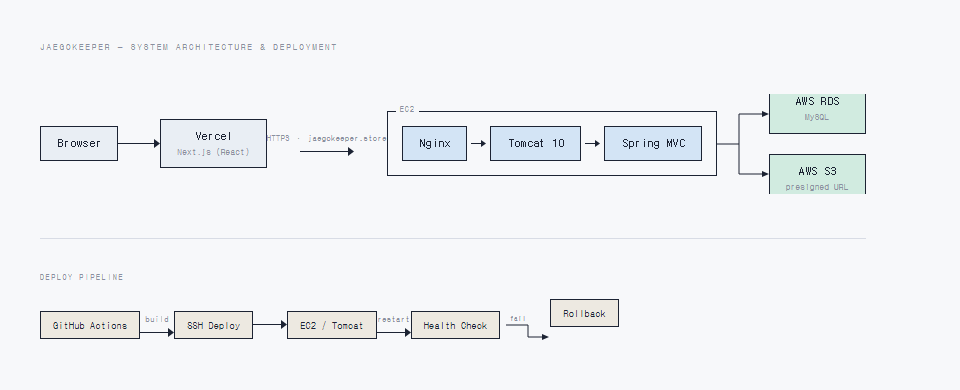
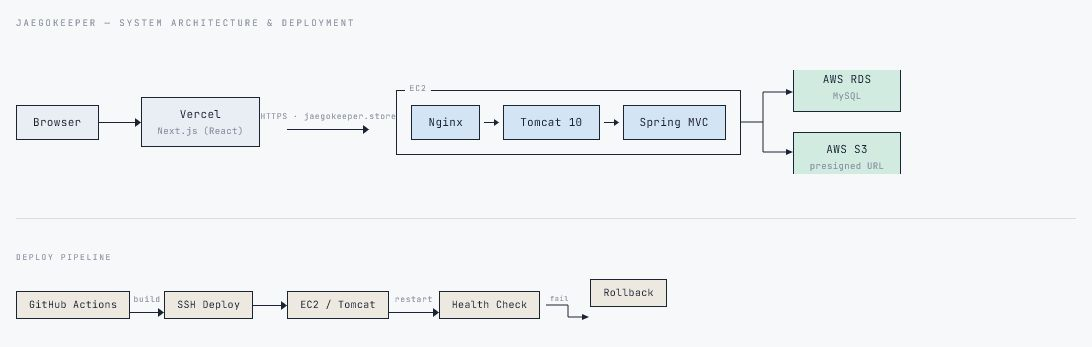
docs: README 배포 자동화/패키지 설명 갱신, ERD 다이어그램 교체

diff --git a/README.md b/README.md
@@ -165,7 +165,7 @@
 | `mail` | 실제 메일 발송 인프라(Gmail SMTP, 비동기, 재시도) — `email`(인증코드 검증 로직)과 역할 분리 |
 | `common` | 공용 DTO(페이징), AOP(`@Timer`), 헬스체크 |
 | `exception` | 공통 에러코드 정의 및 전역 예외 응답 처리 |
-| `config` | 비동기, Swagger, Jackson, Mail 템플릿 등 인프라 설정 |
+| `config` | 비동기, springdoc(OpenAPI), Jackson, Mail 템플릿, S3 클라이언트 등 인프라 설정 |
 | `mappers` | MyBatis SQL 매퍼 XML |
 
 </div>
@@ -237,7 +237,7 @@ src/main/resources/mappers
 
 ### 4) 수동 배포 리스크를 자동 배포로 전환
 - 도전: 수동 배포 과정에서 빌드/환경변수/프로세스 재시작 단계가 반복되며 운영 실수 가능성이 높았음
-- 해결: self-hosted runner 기반 `GitHub Actions` 배포 파이프라인 구성, 헬스체크 단계 추가
+- 해결: `GitHub Actions`(GitHub 호스티드 러너에서 빌드 → SSH로 EC2에 WAR 전달 → Tomcat 재기동) 배포 파이프라인 구성, 헬스체크 실패 시 자동 롤백 추가
 - 선택 이유: 반복 가능한 절차를 코드화해야 환경 의존성과 휴먼 에러를 줄일 수 있기 때문
 - 결과: 배포 과정을 표준화하고 실패 원인을 로그 기준으로 빠르게 추적할 수 있는 구조로 개선
 
